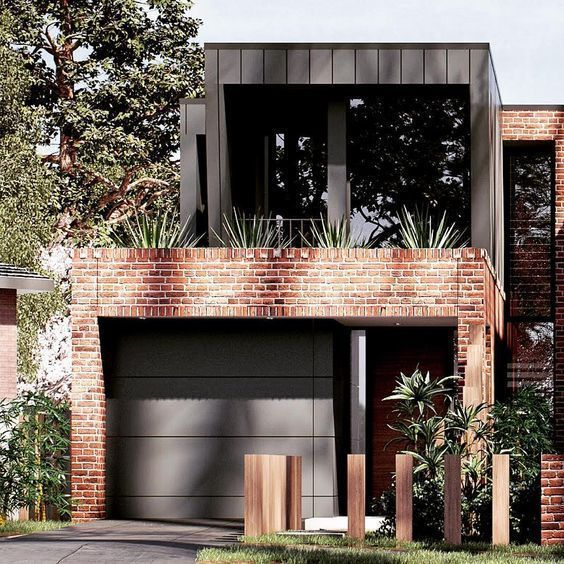
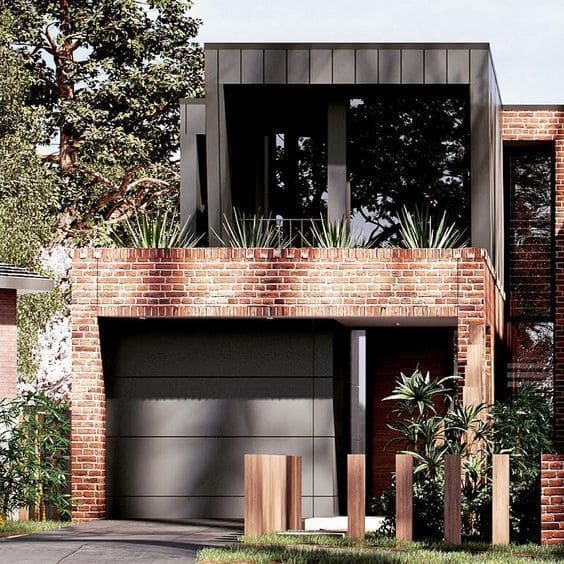
comprimir img

diff --git a/assets/scss/views/_index.scss b/assets/scss/views/_index.scss
@@ -31,7 +31,7 @@ article {
 }
 
 .cambiar_img1 {
-    background-image: url(../img);
+    background-image: url(../img/img1exteriorcomprim.jpm);
 }
 
 .cambiar_img1:hover {
